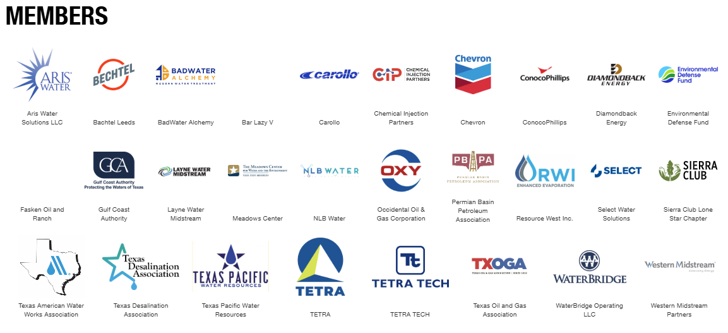
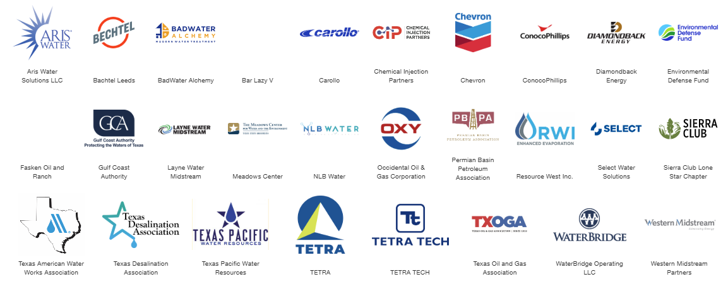
upscaled members

diff --git a/resources/content/home.md b/resources/content/home.md
@@ -8,7 +8,7 @@ The consortium is led by Texas Tech University and brings together a diverse gro
 <p align="center"><img src="https://github.com/spark-hydro/txpwc-dashboard/blob/main/resources/content/images/research_team.png?raw=true" width="1000"></p>
 
 ### Active and diverse stakeholder membership
-<p align="center"><img src="https://github.com/spark-hydro/txpwc-dashboard/blob/main/resources/content/images/members.png?raw=true" width="1000"></p>
+<p align="center"><img src="https://github.com/spark-hydro/txpwc-dashboard/blob/main/resources/content/images/members_ehnanced.png?raw=true" width="1000"></p>
 
 - Agriculture and landowners  
 - Oil and gas (upstream and midstream)  
